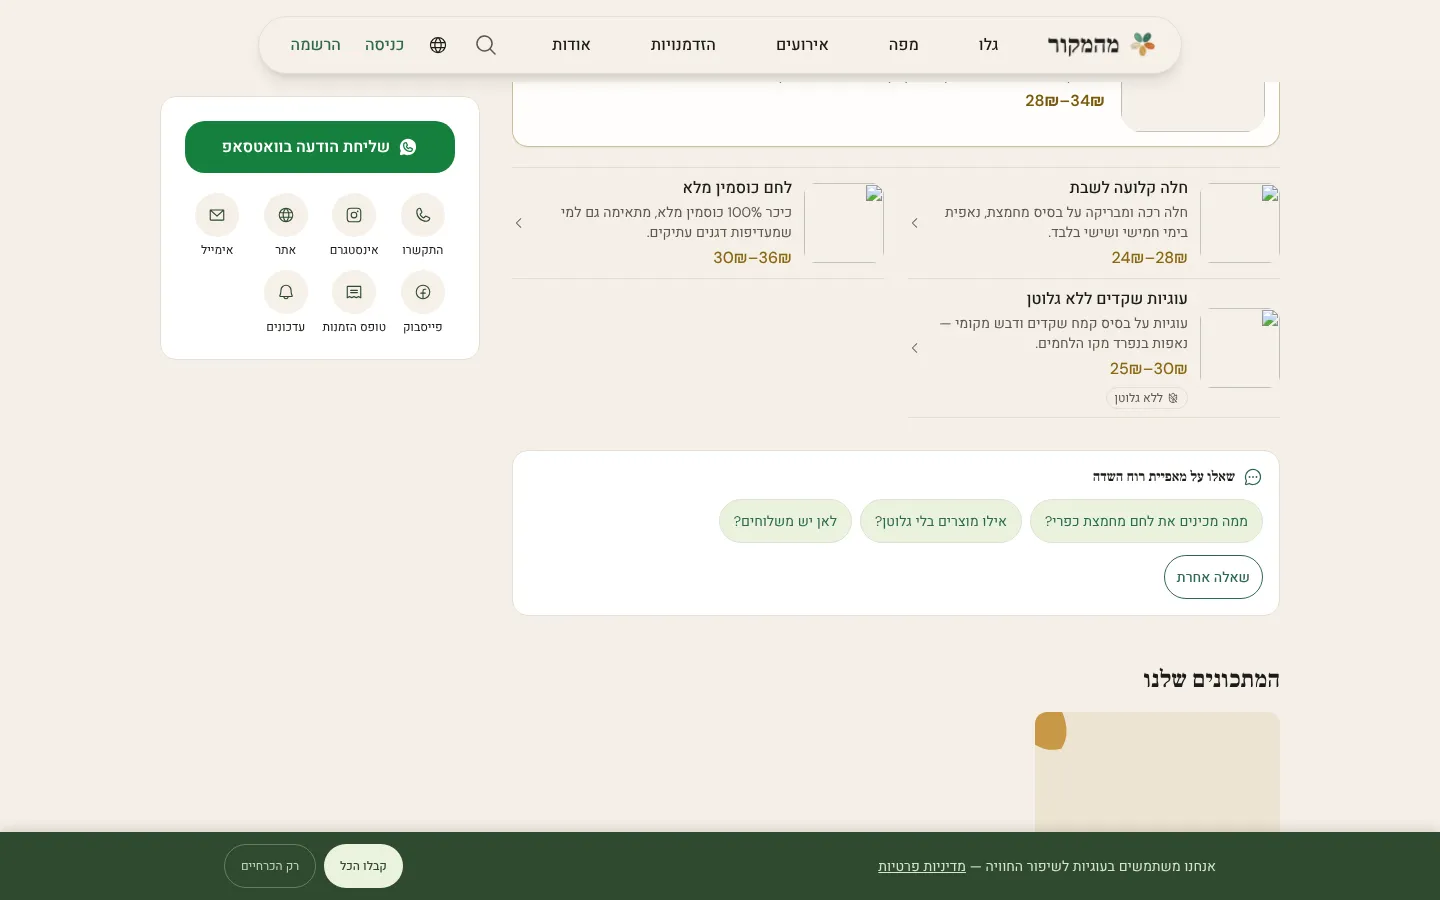
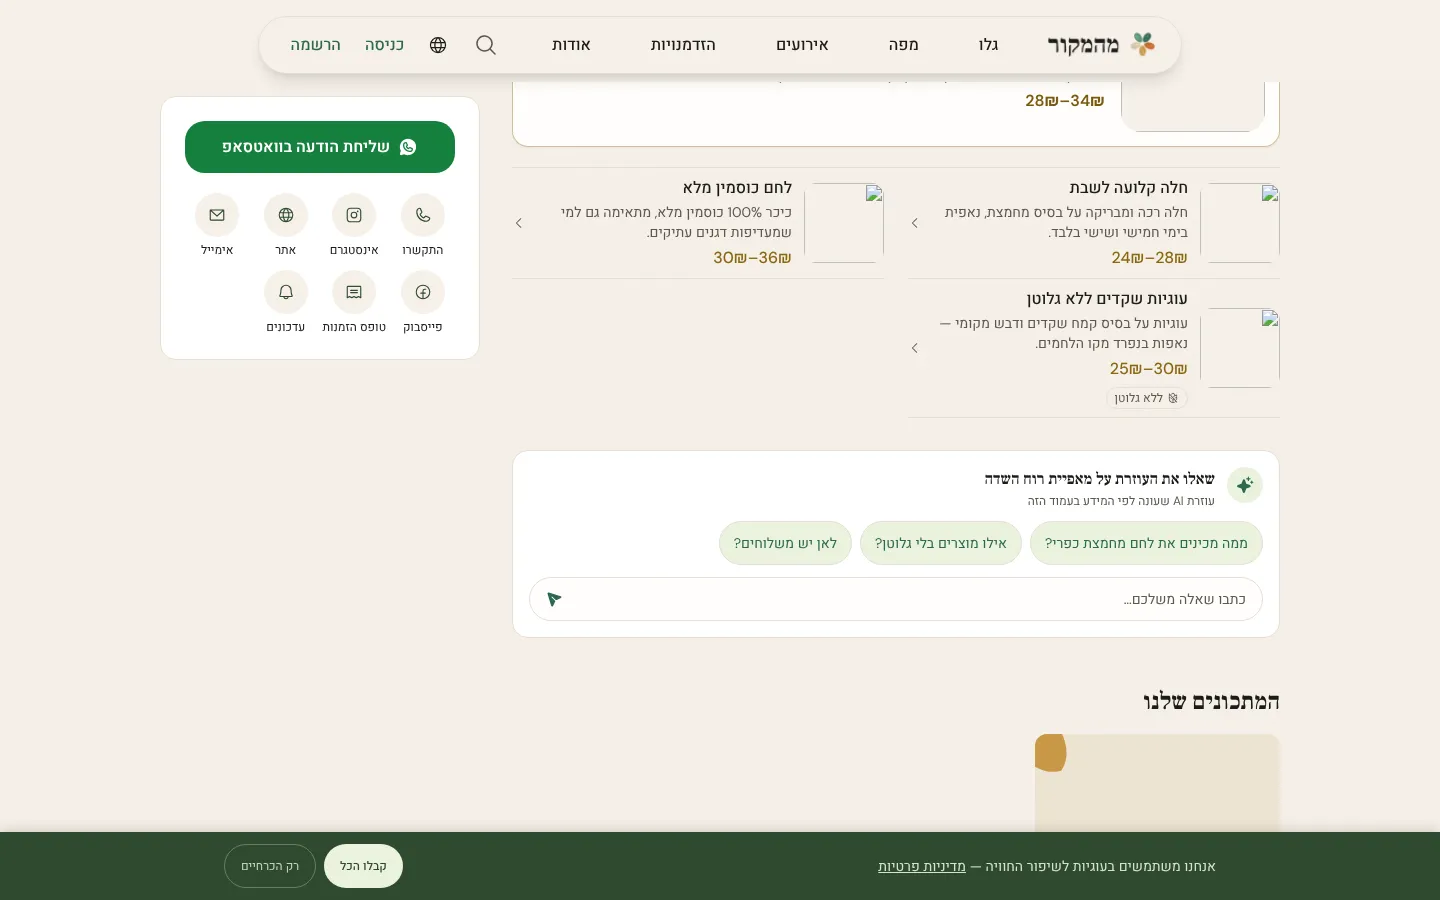
feat(chat): say on the card that it is an AI assistant, and a field to type
Sapir asked whether visitors will understand the card is an assistant.
«שאלו על {name}» and the chips read as questions to the business. Now:
the sparkle mark (Google, Amazon Rufus and most design systems use it
for AI), the title «שאלו את העוזרת על {name}», a line «עוזרת AI שעונה לפי
המידע בעמוד הזה» (EU AI Act art. 50 asks the same disclosure), and the
last row looks like the field it opens («כתבו שאלה משלכם…» with the send
icon) instead of a fourth outlined button. page_button is gone (no
caller left). Test shown red on the old card (3 failed), green after.

Builder-Model: claude-opus-5-5

Claude-Session: https://claude.ai/code/session_01X8DSqXf3gabcVRSUZc5dHi

diff --git a/frontend/app/[locale]/producer/[id]/components/BusinessChatPrompt.jsx b/frontend/app/[locale]/producer/[id]/components/BusinessChatPrompt.jsx
@@ -2,8 +2,7 @@
 "use client";
 
 import { useTranslations } from "next-intl";
-import { ChatCircleDots } from "@phosphor-icons/react";
-import Button from "@/components/ui/Button";
+import { PaperPlaneTilt, Sparkle } from "@phosphor-icons/react";
 import { openBusinessChat } from "@/lib/business-chat";
 import { businessChatPrompts } from "@/lib/business-chat-prompts";
 import { usePreviewMode } from "@/lib/preview-mode";
@@ -45,10 +44,21 @@ export default function BusinessChatPrompt({ producer, signatureProduct = null }
       aria-labelledby="business-chat-title"
       className="mt-8 rounded-lg border border-border bg-surface p-4 print:hidden"
     >
-      <h3 id="business-chat-title" className="flex items-center gap-2 text-sm font-semibold text-text">
-        <ChatCircleDots size={20} className="flex-shrink-0 text-primary" aria-hidden="true" />
-        {t("page_title", { name })}
-      </h3>
+      {/* Sapir 20/11 «האם יבינו שזה עוזרת»: the sparkle is the AI mark people
+          learned from Google (Gemini), Amazon (Rufus) and most design systems,
+          and the line under the title says in words that it is an AI that
+          answers from this page (EU AI Act art. 50 asks the same). */}
+      <div className="flex items-start gap-3">
+        <span className="grid size-9 flex-shrink-0 place-items-center rounded-full bg-green-50 text-primary" aria-hidden="true">
+          <Sparkle size={18} weight="fill" />
+        </span>
+        <div className="min-w-0">
+          <h3 id="business-chat-title" className="text-base font-semibold text-text">
+            {t("page_title", { name })}
+          </h3>
+          <p className="mt-0.5 text-xs text-fg-muted" data-testid="business-chat-ai-note">{t("page_ai_note")}</p>
+        </div>
+      </div>
       {/* MEH-3505: the business's own questions on the page, like Google Maps'
           «Ask about this place» and Amazon's Rufus chips — a tap opens the
           panel with that question already sent. No generic lead line. */}
@@ -71,16 +81,18 @@ export default function BusinessChatPrompt({ producer, signatureProduct = null }
           })}
         </ul>
       )}
-      <Button
-        variant="outlined"
-        size="sm"
-        className="mt-3"
+      {/* Looks like the field it opens (Rufus's «Ask Rufus a question» box):
+          one more outlined button under the chips read as a fourth chip. */}
+      <button
+        type="button"
         data-testid="business-chat-open"
         aria-haspopup="dialog"
         onClick={() => open()}
+        className="mt-3 flex min-h-touch w-full items-center justify-between gap-2 rounded-full border border-border bg-surface-card px-4 text-start text-sm text-fg-muted transition hover:border-primary focus-visible:ring-2 focus-visible:ring-primary"
       >
-        {prompts.length > 0 ? t("page_other") : t("page_button")}
-      </Button>
+        <span>{t("page_other")}</span>
+        <PaperPlaneTilt size={16} weight="fill" className="flex-shrink-0 text-primary" style={{ transform: "scaleX(-1)" }} aria-hidden="true" />
+      </button>
     </section>
   );
 }

diff --git a/frontend/__tests__/ChatWidgetBusiness.test.jsx b/frontend/__tests__/ChatWidgetBusiness.test.jsx
@@ -65,6 +65,9 @@ describe.each([["desktop", true], ["phone", false]])("business page chat (%s)", 
   it("shows no floating launcher and no panel until the page's button is tapped", () => {
     renderPage();
     expect(screen.getByTestId("business-chat-prompt")).toHaveTextContent(B.page_title.replace("{name}", PRODUCER.name));
+    // Sapir 20/11 «האם יבינו שזה עוזרת»: the card says in words it is an AI.
+    expect(screen.getByTestId("business-chat-ai-note")).toHaveTextContent(B.page_ai_note);
+    expect(B.page_ai_note).toContain("AI");
     expect(screen.queryByTestId("chat-launcher")).not.toBeInTheDocument();
     expect(screen.queryByRole("dialog")).not.toBeInTheDocument();
   });
@@ -213,7 +216,7 @@ describe("MEH-3505: the business's questions on the page itself", () => {
     expect(post.mock.calls[1][1].messages.at(-1)).toEqual({ role: "user", content: B.prompts.delivery });
   });
 
-  it("a page with no questions keeps one button, «שאלו את העוזרת»", () => {
+  it("a page with no questions keeps one button, the question field", () => {
     render(
       <NextIntlClientProvider locale="he" messages={he} onError={() => {}}>
         <BusinessChatPrompt producer={{ id: PRODUCER.id, name: PRODUCER.name, status: "approved" }} />
@@ -222,7 +225,7 @@ describe("MEH-3505: the business's questions on the page itself", () => {
     const section = screen.getByTestId("business-chat-prompt");
     expect(within(section).queryByTestId("business-chat-questions")).not.toBeInTheDocument();
     expect(within(section).getAllByRole("button")).toHaveLength(1);
-    expect(within(section).getByTestId("business-chat-open")).toHaveTextContent(B.page_button);
+    expect(within(section).getByTestId("business-chat-open")).toHaveTextContent(B.page_other);
   });
 });
 
